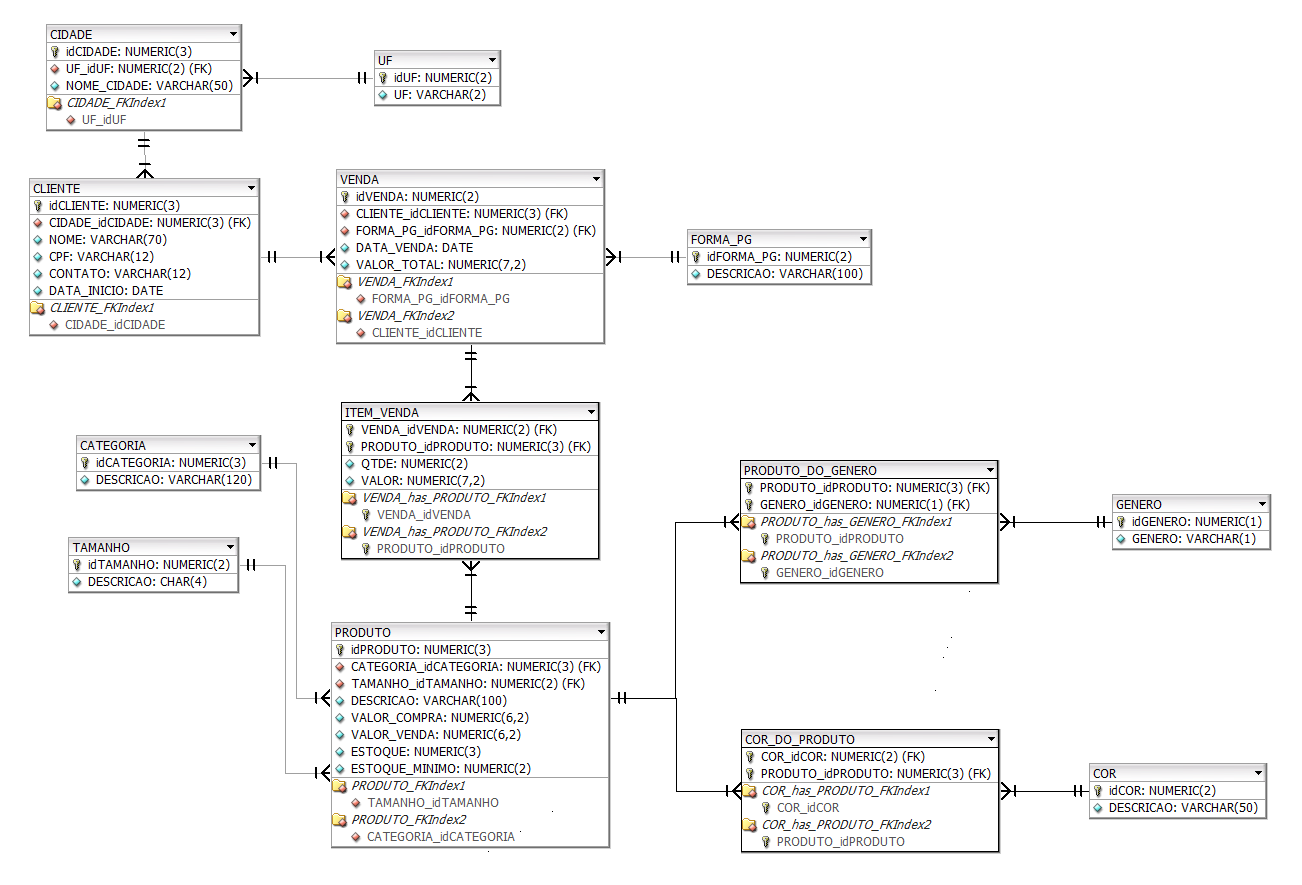
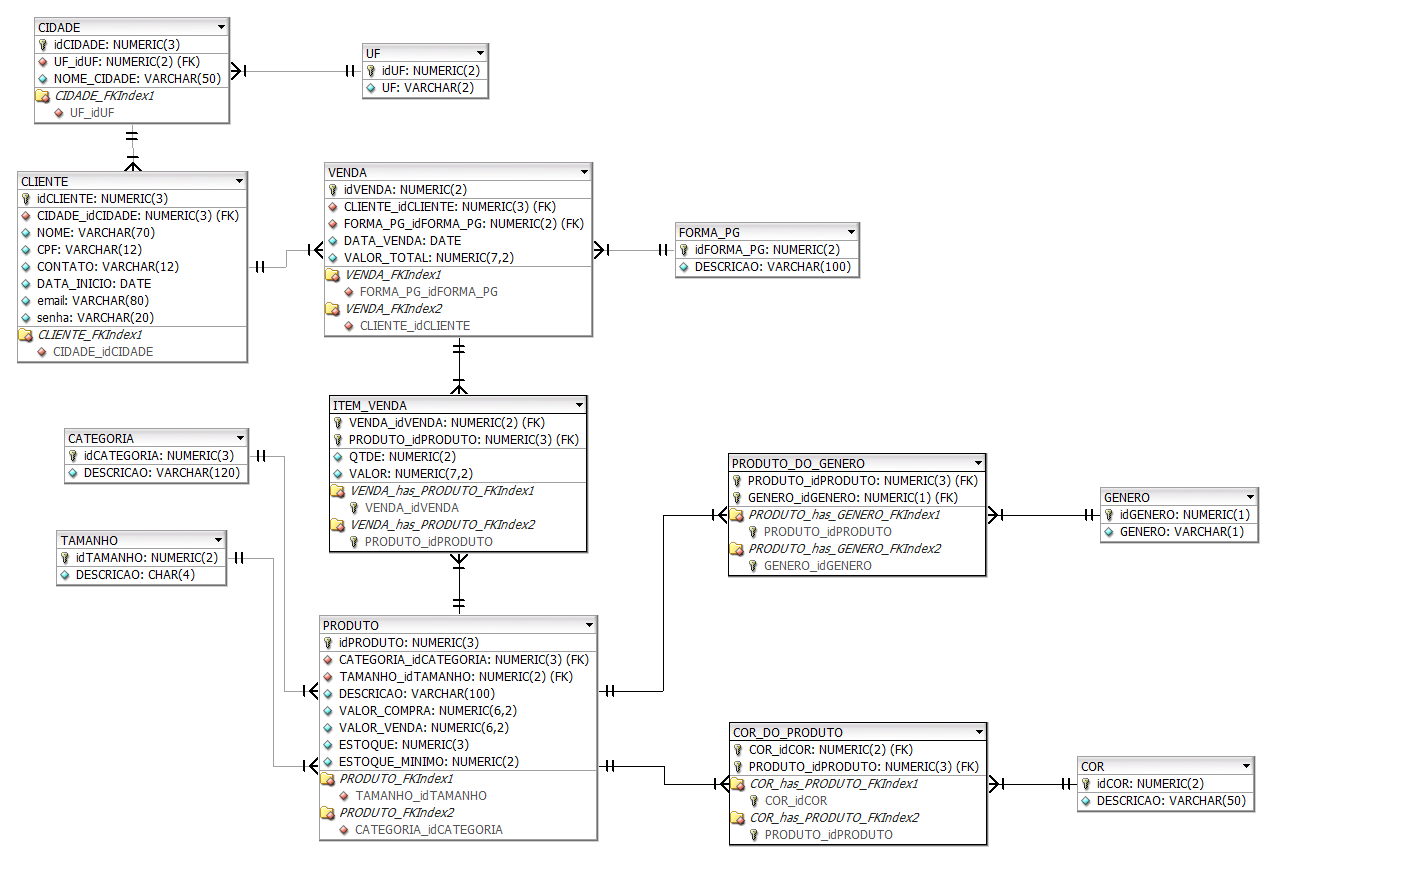
atualizacao da modelagem do bd(banco de dados)

diff --git a/DAL/Conexao.php b/DAL/Conexao.php
@@ -1,0 +1,35 @@
+<?php
+
+    namespace DAL;
+
+    use \PDO;
+
+    class Conexao{
+
+        private static $dbNome = 'loja_de_roupa';
+        private static $dbHost = 'localhost';
+        private static $dbUsuario = 'root';
+        private static $dbSenha = '';
+
+        private static $cont = null;
+
+        public static function conectar(){
+            if(self::$cont == null){
+                try{
+
+                    self::$cont = new PDO("mysql:host=" . self::$dbHost . ";dbname=" . self::$dbNome, self::$dbUsuario, self::$dbSenha);
+
+                }catch(\PDOException $e){
+                    die ($e->getMessage());
+                }
+        }
+        return self::$cont;
+    }
+
+    public static function desconectar(){
+        self::$cont = null;
+        return self::$cont;
+    }
+}
+
+?>
